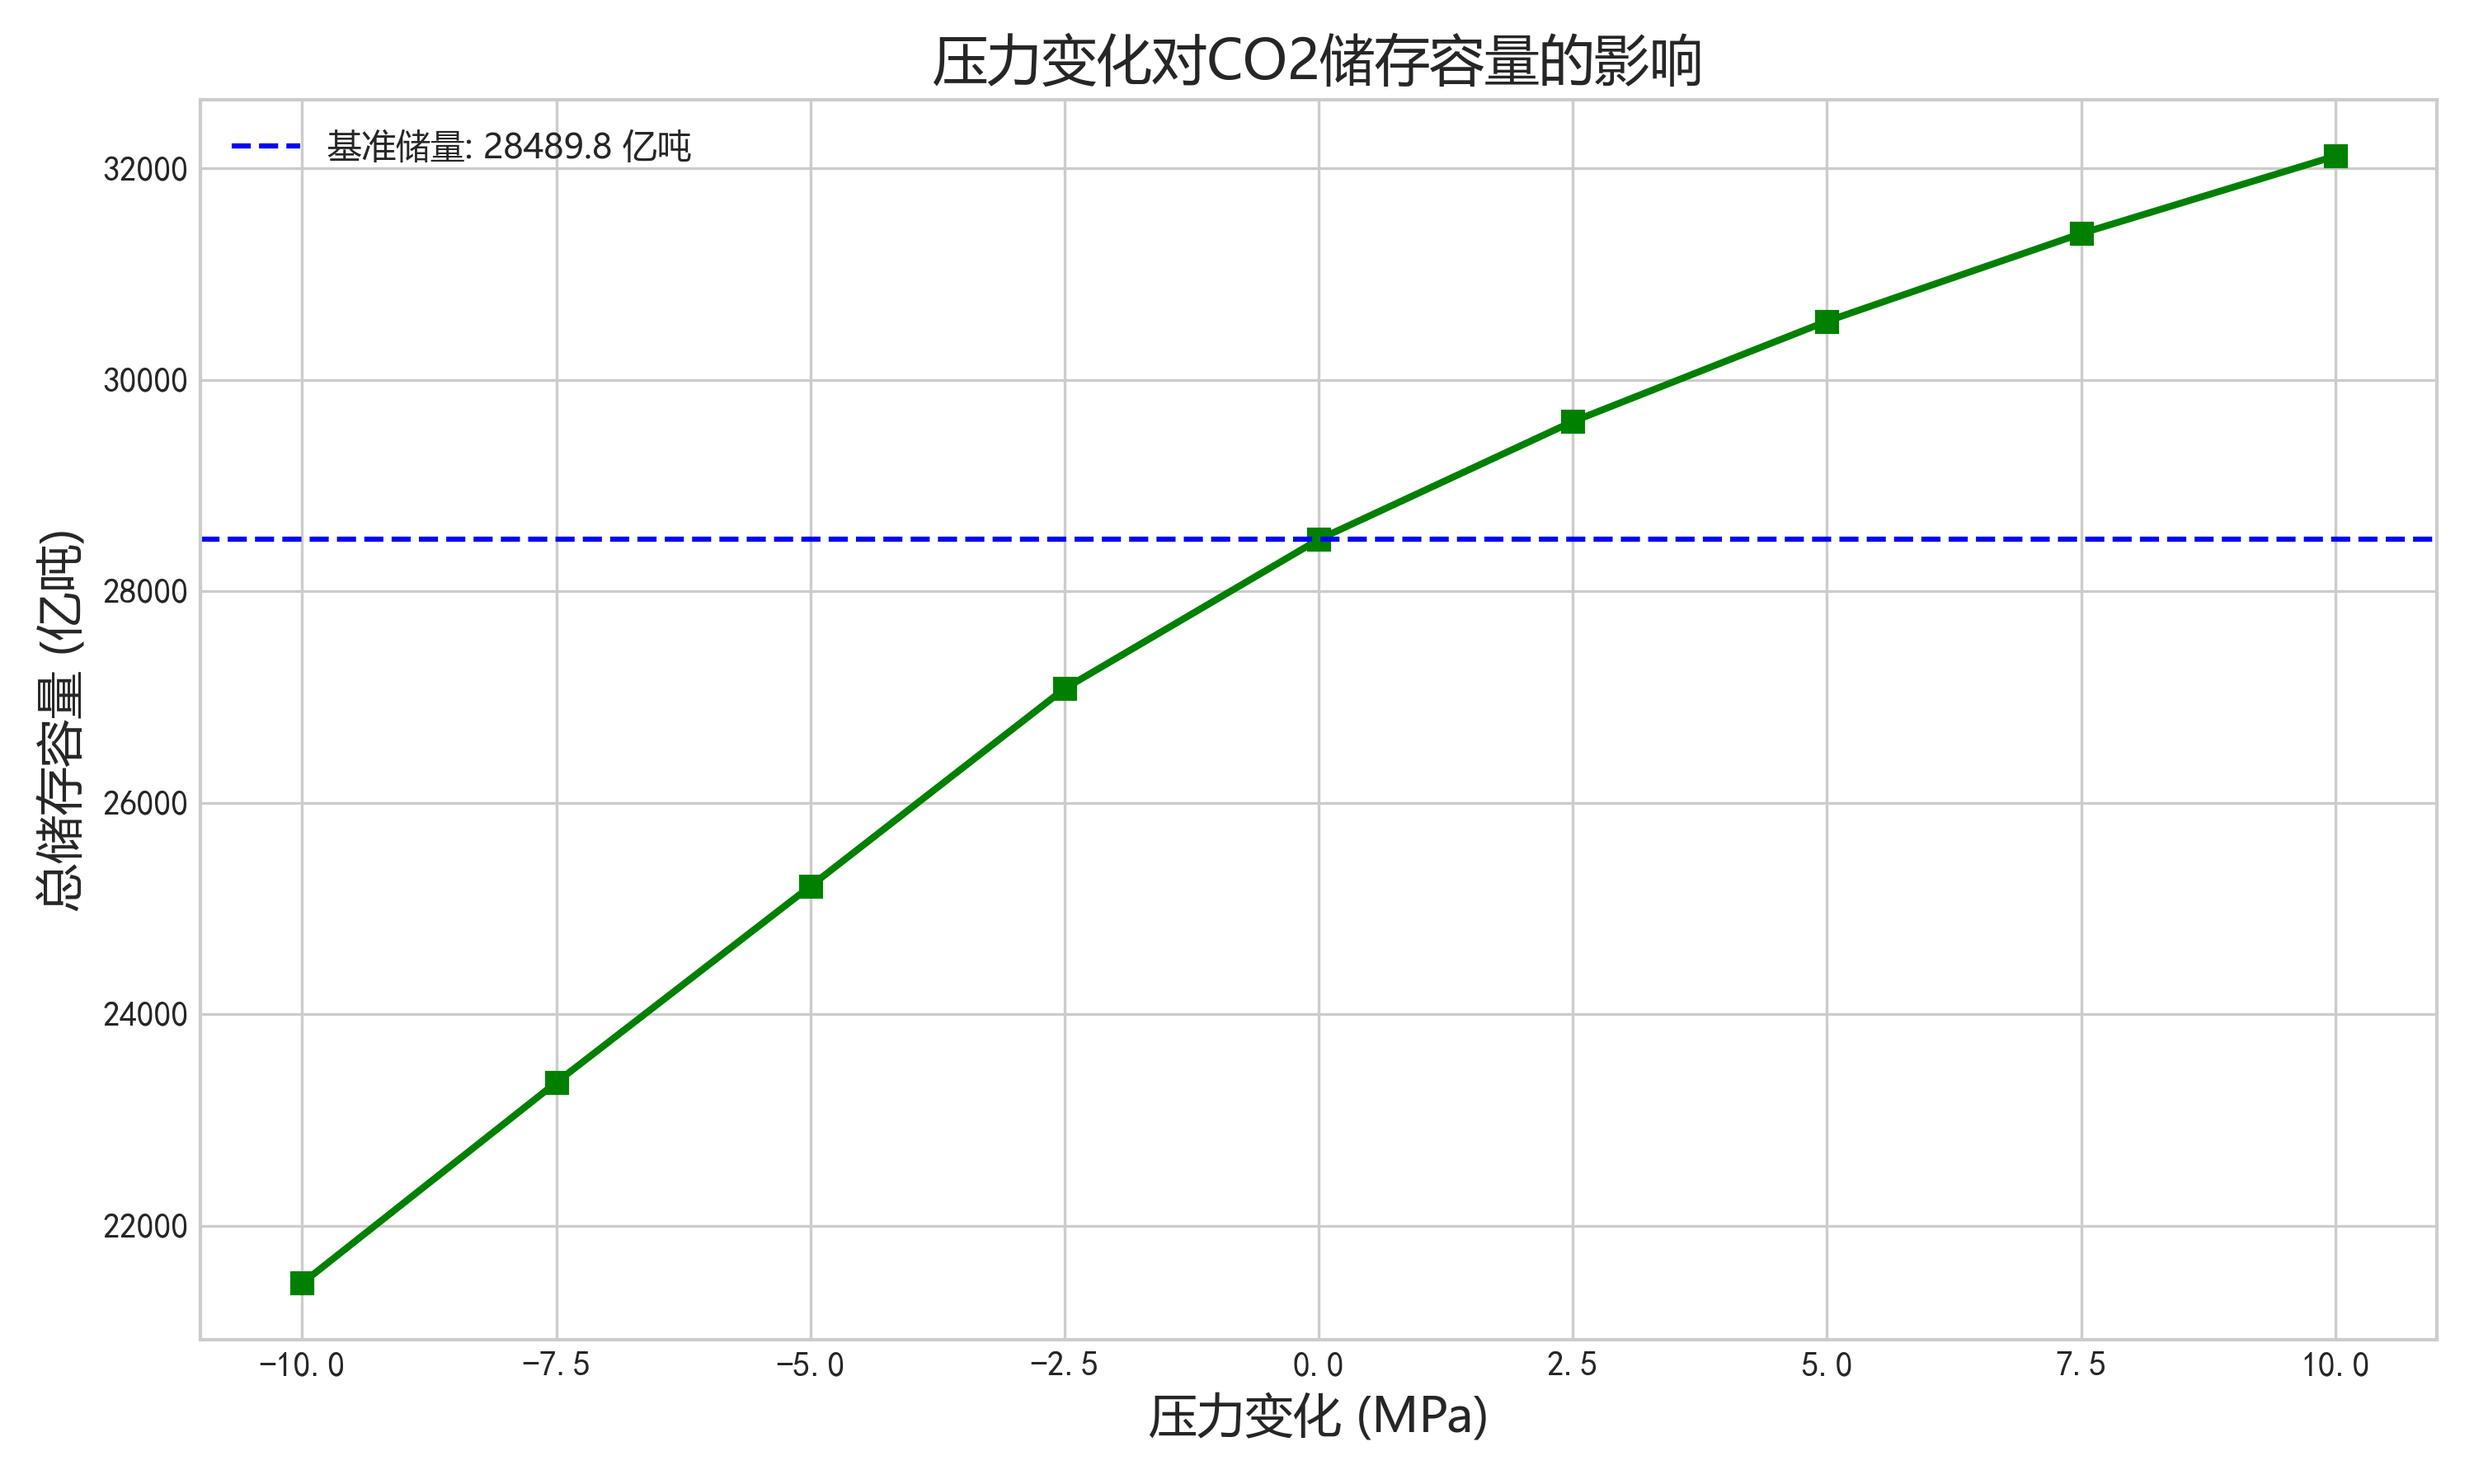
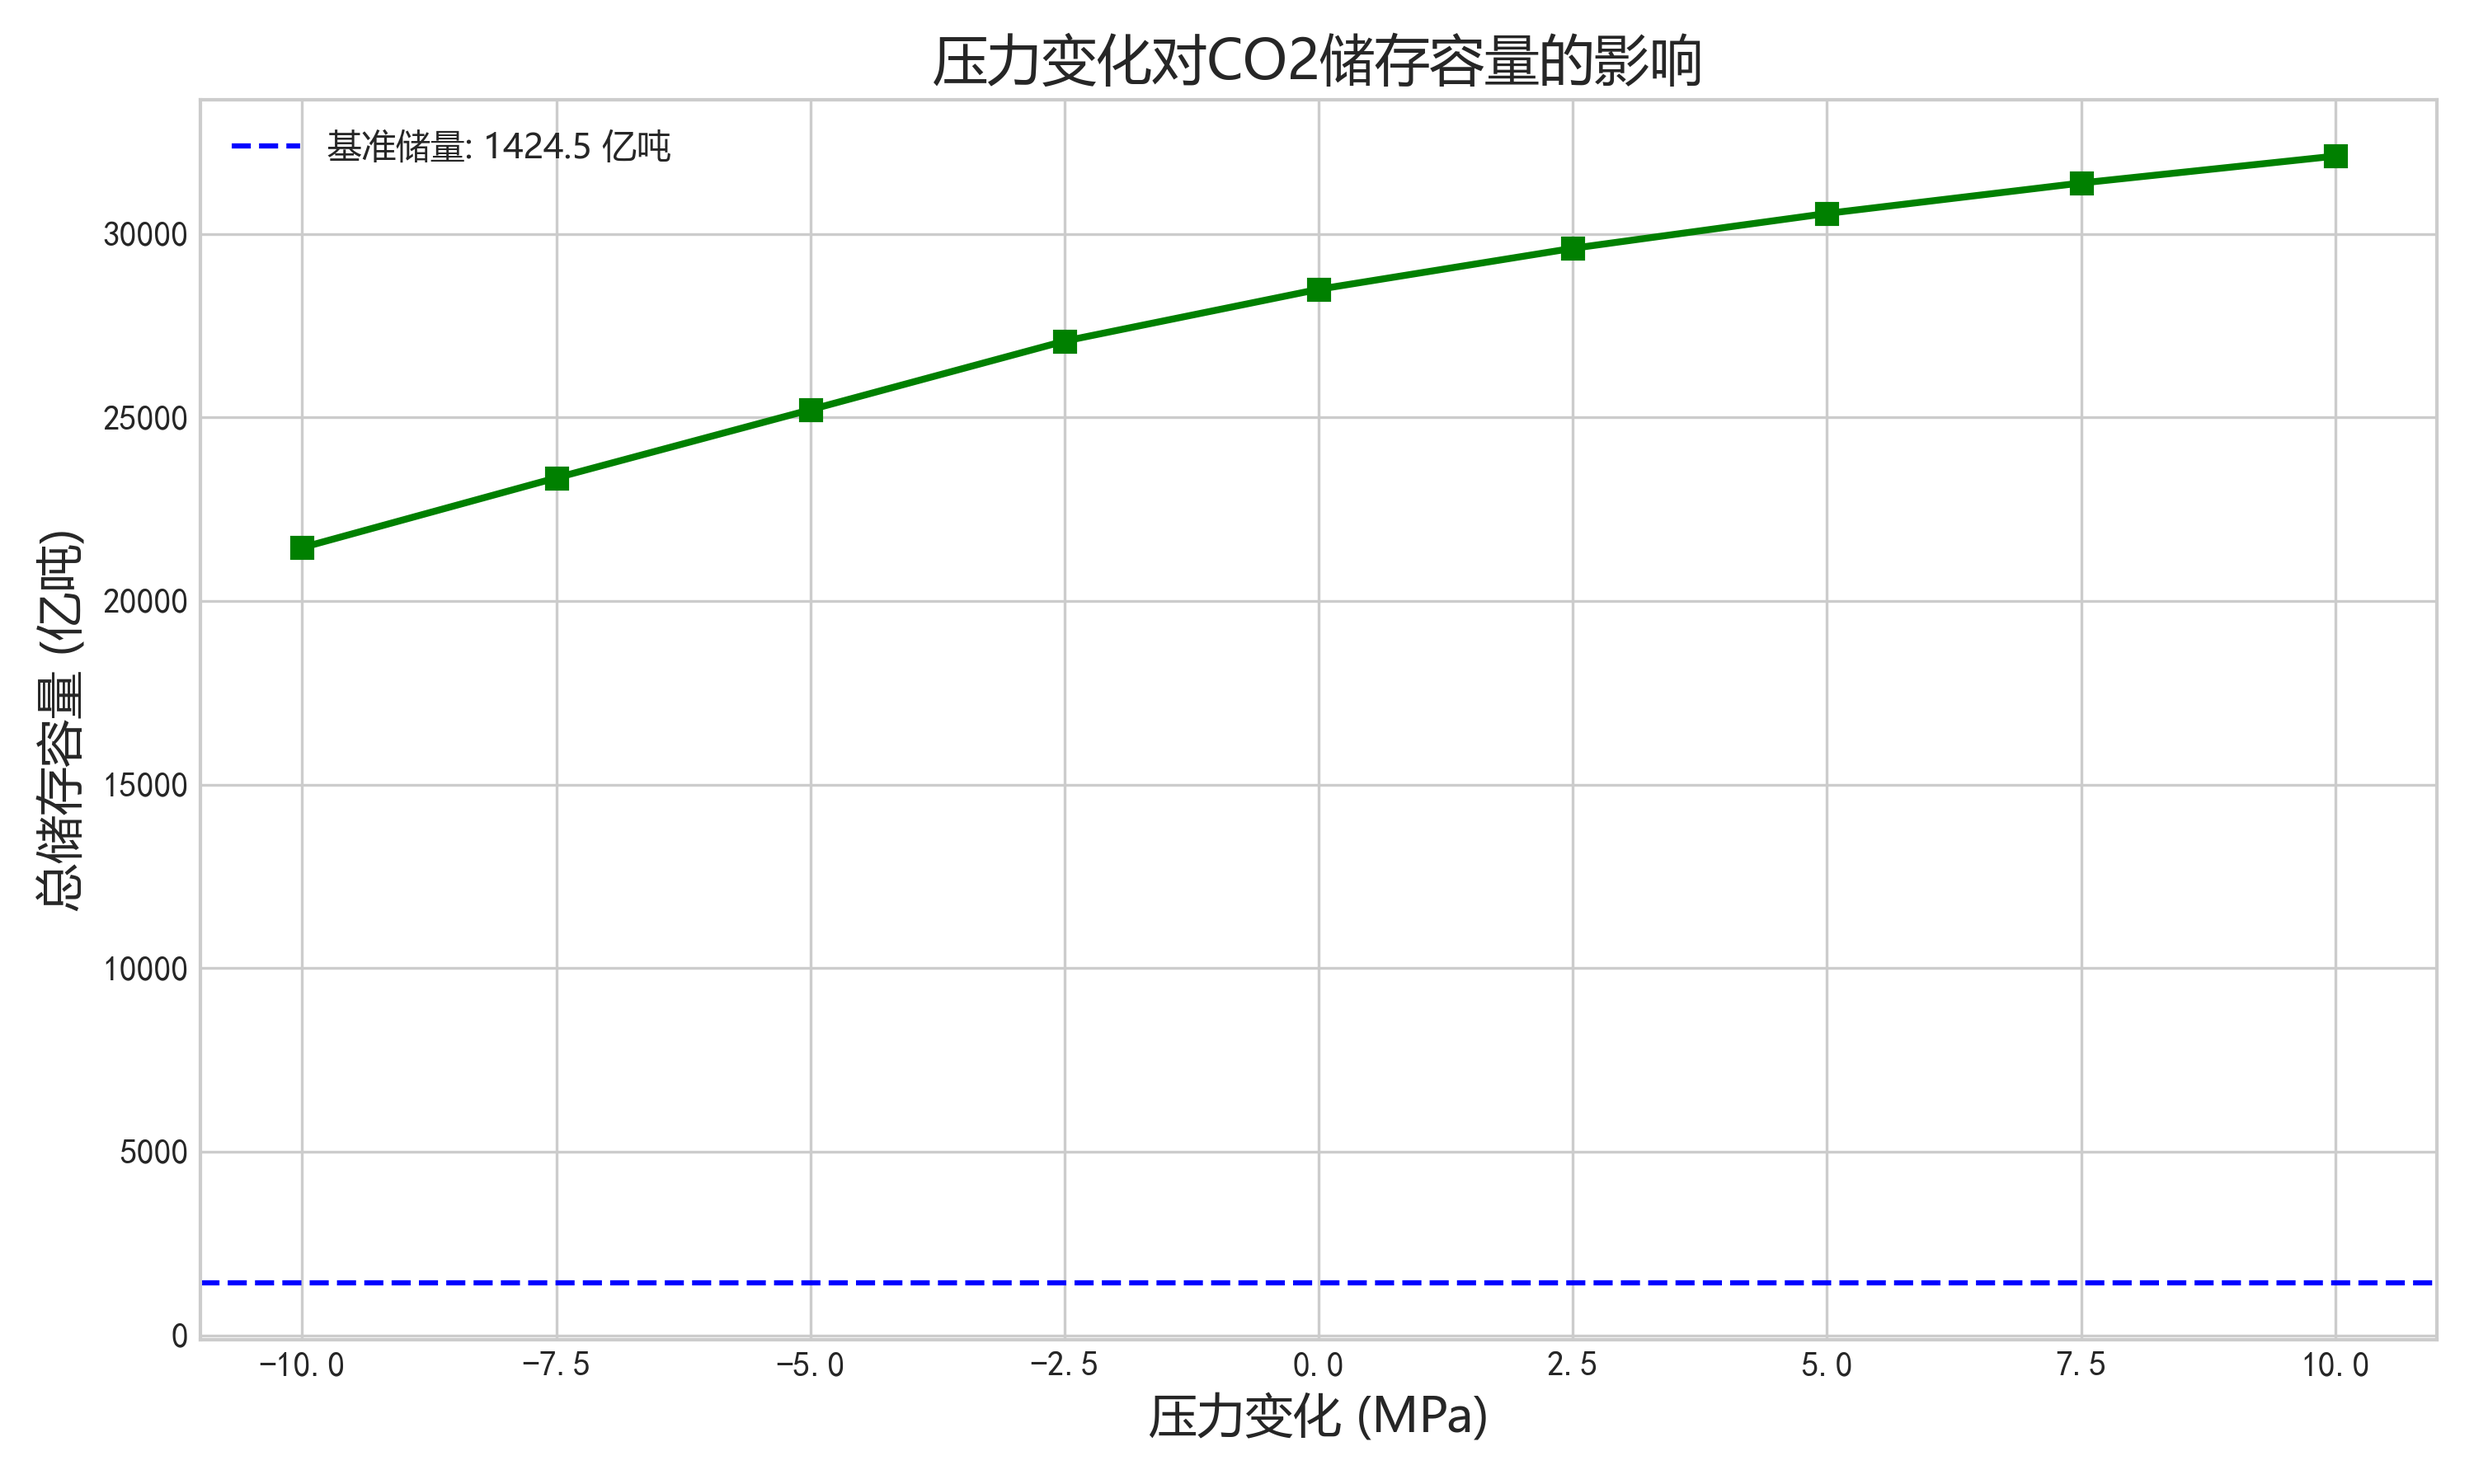
第一天

diff --git a/solution.py b/solution.py
@@ -141,8 +141,7 @@ def calculate_co2_density_coolprop(temperature, pressure):
         P_pascal = pressure * 1e6
         
         # 使用CoolProp计算CO2的密度
-        density = CP.PropsSI('D', 'T', T_kelvin, 'P', P_pascal, 'CO2')
-        
+        density = CP.PropsSI('D', 'T', T_kelvin, 'P', P_pascal, 'CO2')        
         return density
     except Exception as e:
         # 如果出现计算错误（如超出CoolProp有效范围），返回备用计算结果
@@ -261,6 +260,7 @@ def calculate_total_storage_capacity():
             basin_data['avg_pressure'],
             basin_data['salinity']
         )
+        # print(f"CO2密度: {co2_density:.2f} kg/m³, 盐水密度: {brine_density:.2f} kg/m³")
         
         # 估算效率因子（CO2在孔隙中可占的比例）
         efficiency_factor = estimate_co2_efficiency_factor(
@@ -275,7 +275,7 @@ def calculate_total_storage_capacity():
         co2_storage_capacity_kg = total_pore_volume * efficiency_factor * co2_density
         
         # 转换为Gt (亿吨)
-        co2_storage_capacity_gt = co2_storage_capacity_kg / 1e11
+        co2_storage_capacity_gt = 0.05 * co2_storage_capacity_kg / 1e11
         
         # 存储结果
         results[basin_name] = {
